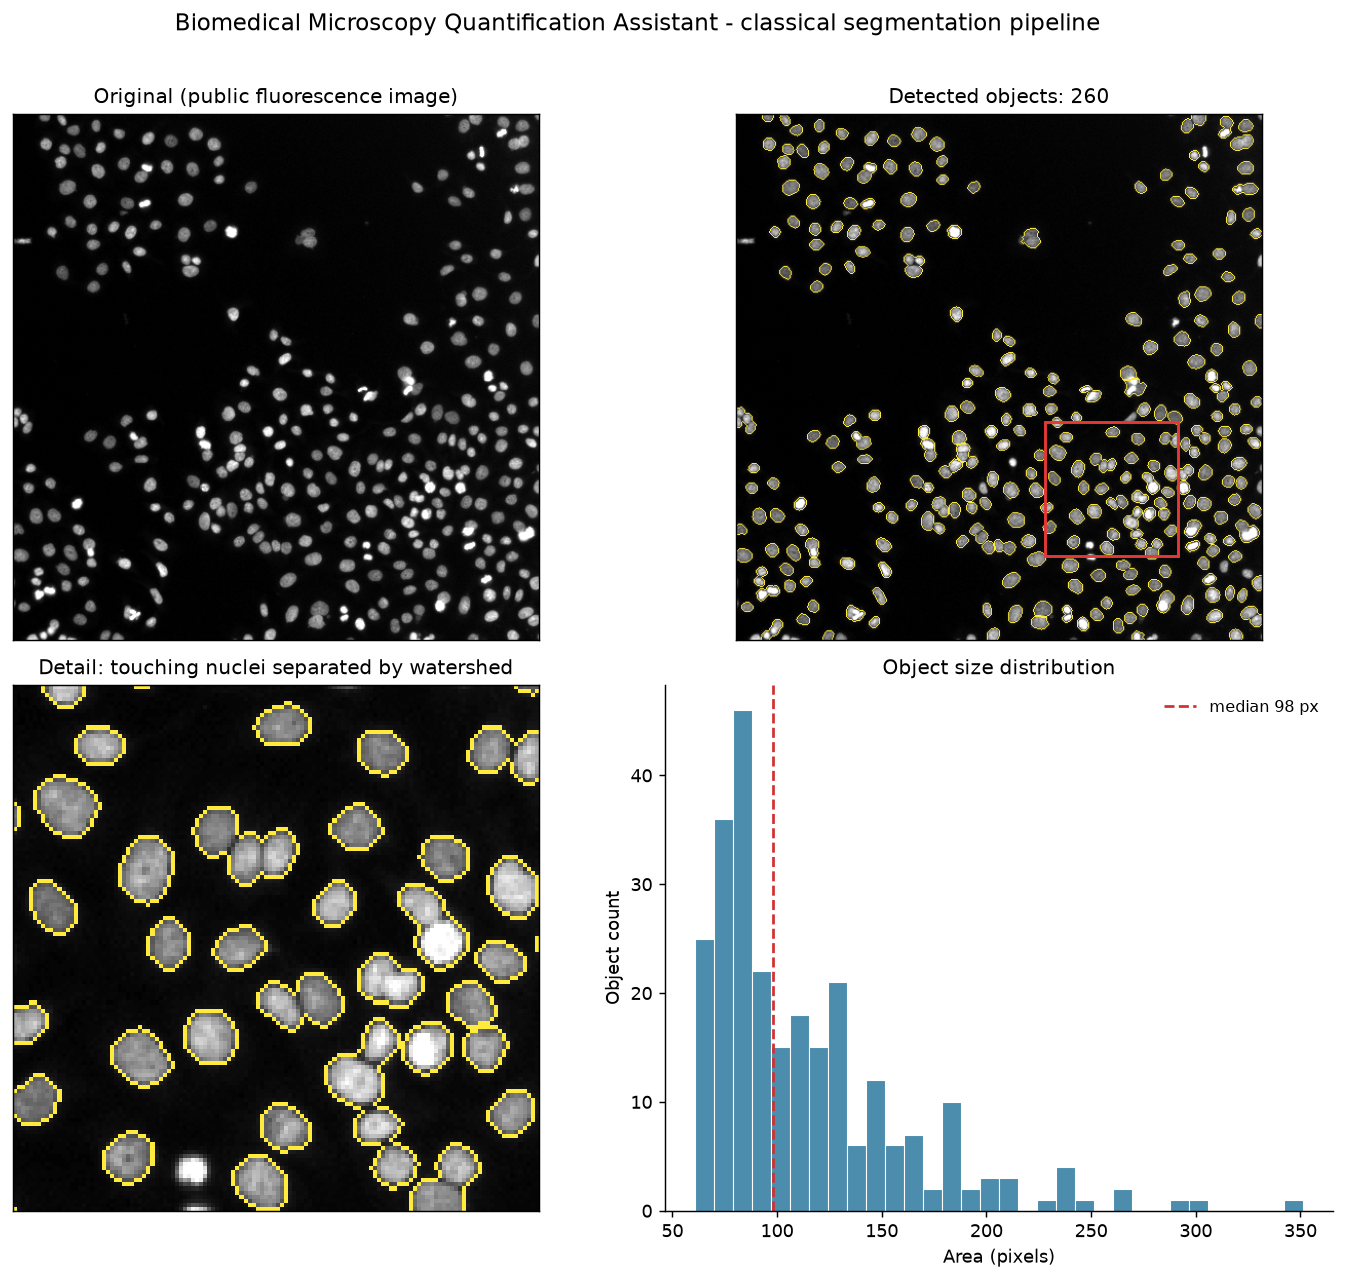
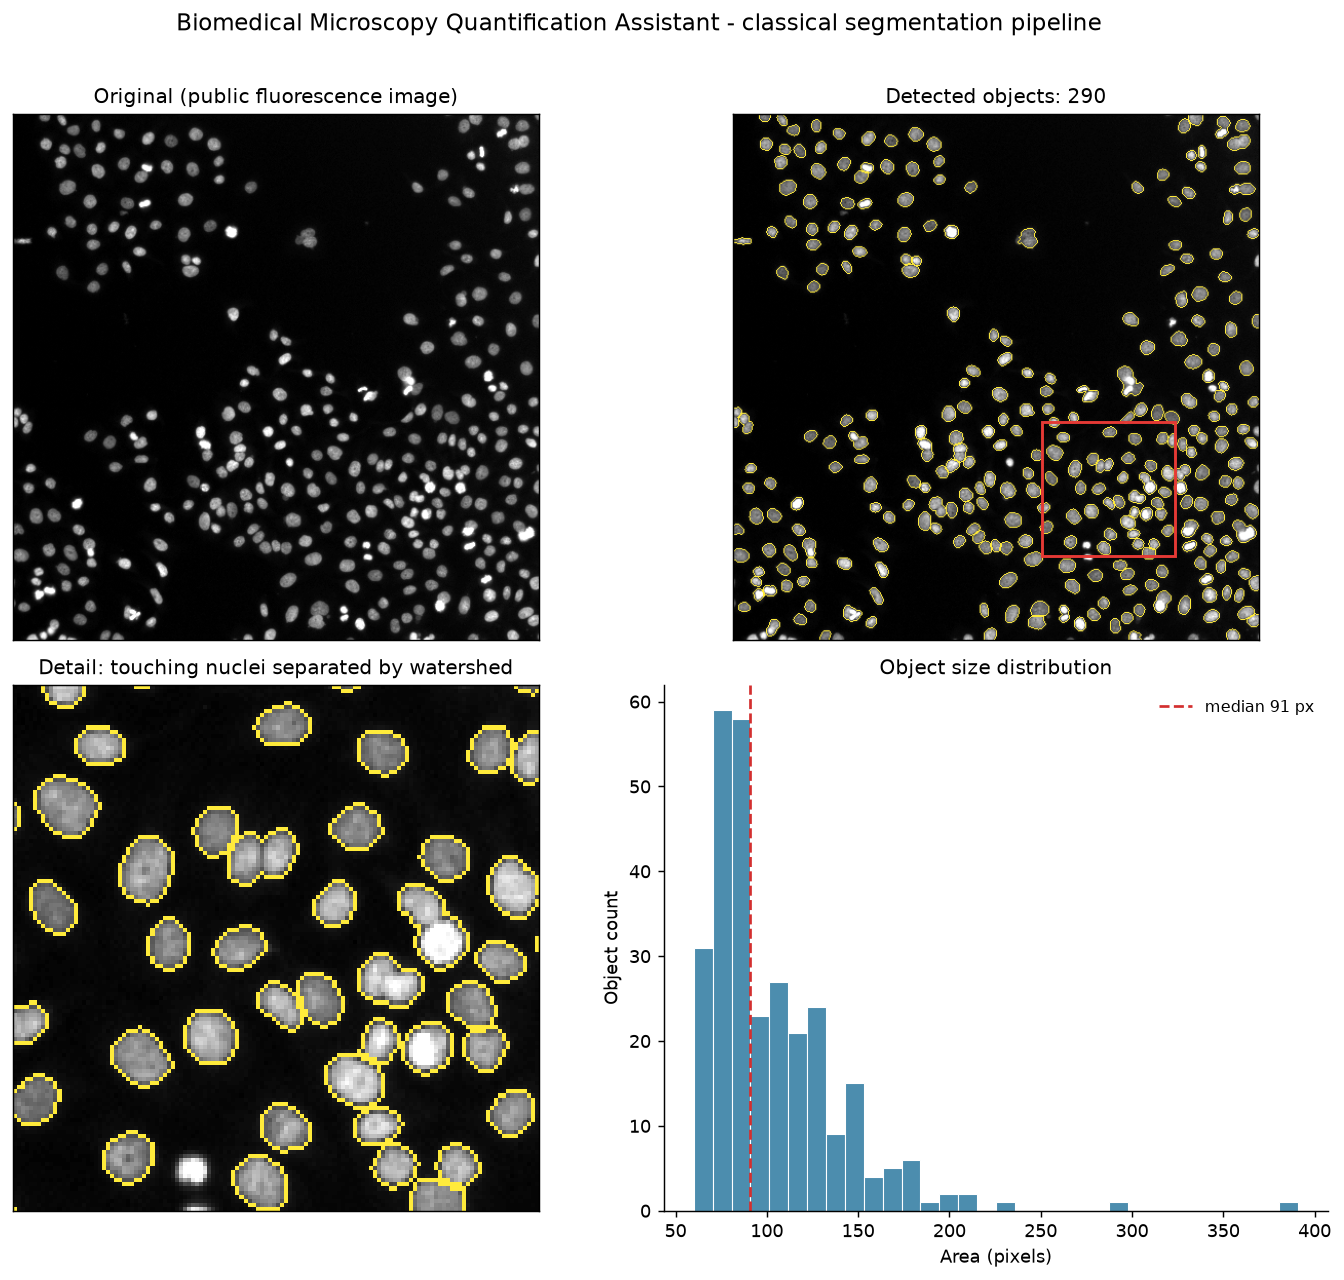
Re-verify every documented number after the seeding change
Changing the seeding shifted results that the documentation still quoted from
before it, and I did not re-check them. Corrected against the shipped pipeline:

  demo image            260 -> 290 objects
  difficult sample       72 -> 70 of 110 (65% -> 64% recall)
  illumination gain   72->90 -> 70->90
  histology caveat    20 objects, 89 px mean -> 13 objects, 110 px mean

Also fixes a latent bug this surfaced: scripts/make_figure.py never passed
cleanup_radius, so it used segment()'s own default of 1 rather than the shipped
0, and the published figure was generated with different parameters than the
application uses. It gave 279 where run_pipeline and the app both gave 290. Every
default is now passed explicitly and all three paths agree.

Figure regenerated. 185 tests.

diff --git a/scripts/make_figure.py b/scripts/make_figure.py
@@ -27,12 +27,21 @@ def main() -> int:
     ASSETS.mkdir(parents=True, exist_ok=True)
 
     prepared = preprocessing.prepare(SAMPLE_DIR / SAMPLE)
+    # Every shipped default is passed explicitly. Omitting one silently used
+    # segment()'s own default instead, so the published figure was generated
+    # with different parameters than the application uses.
     result = segmentation.segment(
         prepared.analysis,
+        threshold_method=DEFAULTS["threshold_method"],
         min_size=DEFAULTS["min_size"],
         smoothing_sigma=DEFAULTS["smoothing_sigma"],
+        cleanup_radius=DEFAULTS["cleanup_radius"],
+        fill_holes=DEFAULTS["fill_holes"],
+        separate_touching=DEFAULTS["separate_touching"],
         peak_min_distance=DEFAULTS["peak_min_distance"],
-        separate_touching=True,
+        seeding=DEFAULTS["seeding"],
+        seed_depth=DEFAULTS["seed_depth"],
+        background_radius=DEFAULTS["background_radius"],
     )
     frame = measurements.measure(result.labels, prepared.intensity)
 

diff --git a/src/config.py b/src/config.py
@@ -68,7 +68,7 @@ DEFAULTS = {
     # Off by default. It is ~10x slower than the rest of the pipeline and on the
     # evenly illuminated BBBC039 benchmark it is worth at most +0.004 F1, inside
     # noise. It matters a great deal on unevenly lit images: it takes the
-    # difficult synthetic sample from 72 to 90 of 110 objects.
+    # difficult synthetic sample from 70 to 90 of 110 objects.
     "background_radius": 0,
     "pixel_size_um": None,
 }
@@ -123,7 +123,7 @@ SAMPLE_CAVEATS = {
         "thresholds bright objects on a dark background; on brightfield stained "
         "tissue it instead outlines whole tissue regions and cuts them into "
         "arbitrary watershed polygons. Here roughly 58% of the image is treated "
-        "as foreground and the average 'object' is about 89 pixels across, "
+        "as foreground and the average 'object' is about 110 pixels across, "
         "where a real nucleus would be 10-20. Brightfield histology needs stain "
         "colour deconvolution, which this tool does not do. The sample is kept "
         "to show what running a method outside its domain looks like."

diff --git a/README.md b/README.md
@@ -343,7 +343,7 @@ than asserted.
 | --- | ---: | ---: | --- |
 | `synthetic_easy.png` | 32 | **32** | Well separated nuclei |
 | `synthetic_moderate.png` | 34 | **34** | Touching nuclei; the case watershed addresses |
-| `synthetic_difficult.png` | 110 | 72 | **Known failure case (65% recall)** |
+| `synthetic_difficult.png` | 110 | 70 | **Known failure case (64% recall)** |
 
 The difficult sample is dense, deeply overlapping, noisy, and unevenly
 illuminated. It is included on purpose, and taking it apart showed that its
@@ -362,7 +362,7 @@ against the output individually:
 
 That is not overlap. That is a single global threshold failing on an unevenly
 lit field, and it is fixable. Turning on illumination correction takes the
-detected count from **72 to 90 of 110**.
+detected count from **70 to 90 of 110**.
 
 What remains after that is the genuine limit: 90 detected objects still contain
 more than 90 nuclei, because nuclei overlapping past a certain point share one
@@ -370,7 +370,7 @@ distance-transform peak and cannot be separated. A test asserts the uncorrected
 result stays in its documented range so this claim cannot silently drift.
 
 On the demonstration image (`public_human_mitosis.png`, 512×512) the pipeline
-detects 260 objects in roughly 0.1 seconds. There is no ground truth for that
+detects 290 objects in roughly 0.1 seconds. There is no ground truth for that
 image, so the number is a result, not an accuracy claim.
 
 ## Sample data

diff --git a/DEMO.md b/DEMO.md
@@ -26,7 +26,7 @@ conversation about a real need could turn into.
 ## The run (about 90 seconds)
 
 1. The app is already showing the real fluorescence image, analysed.
-2. Point at the count: **260 objects detected**.
+2. Point at the count: **290 objects detected**.
 3. Zoom the annotated panel. Point at a pair of touching nuclei with a line
    between them.
    > "Those two nuclei are touching. A simple threshold counts them as one
@@ -45,7 +45,7 @@ Do this **before** he asks. It is the most credible thing you will say.
 Switch to **Synthetic - difficult (known failure case)**.
 
 > "I also want to show you where it fails. This image is dense and overlapping,
-> and it finds about 72 of the 110 objects that are actually there. I know that
+> and it finds about 70 of the 110 objects that are actually there. I know that
 > number because I generated the image, so I know the truth. The method can't
 > separate objects that overlap past a certain point, and no amount of tuning
 > fixes it. I'd rather show you that than pretend it always works."